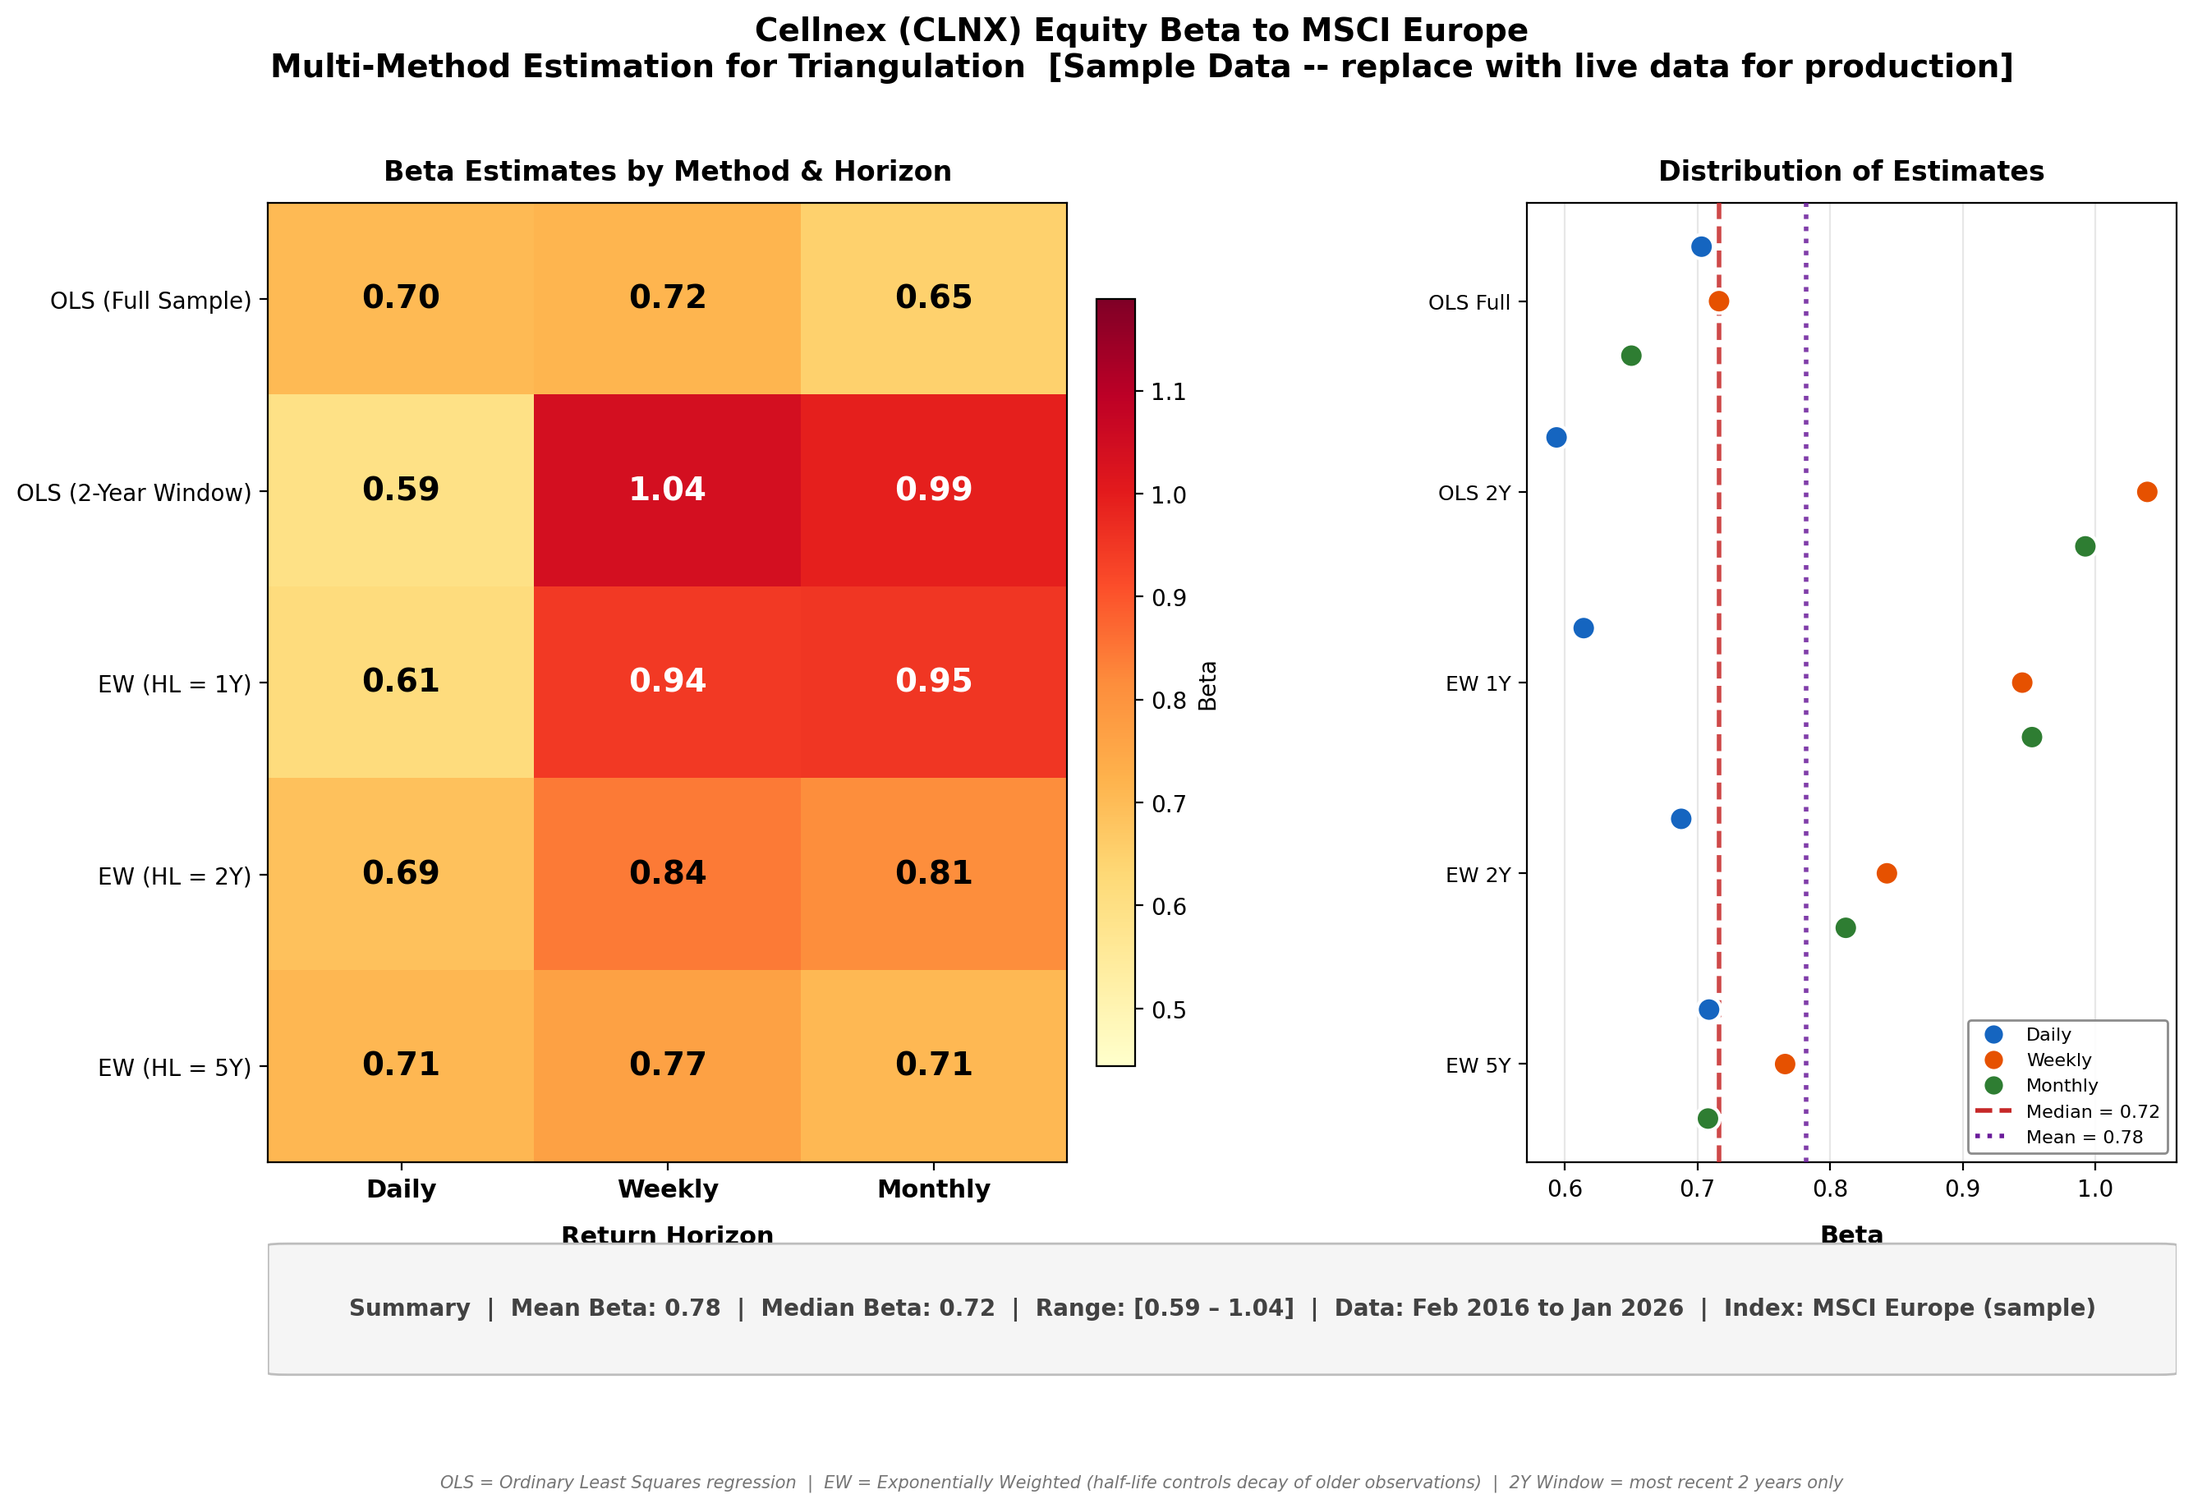
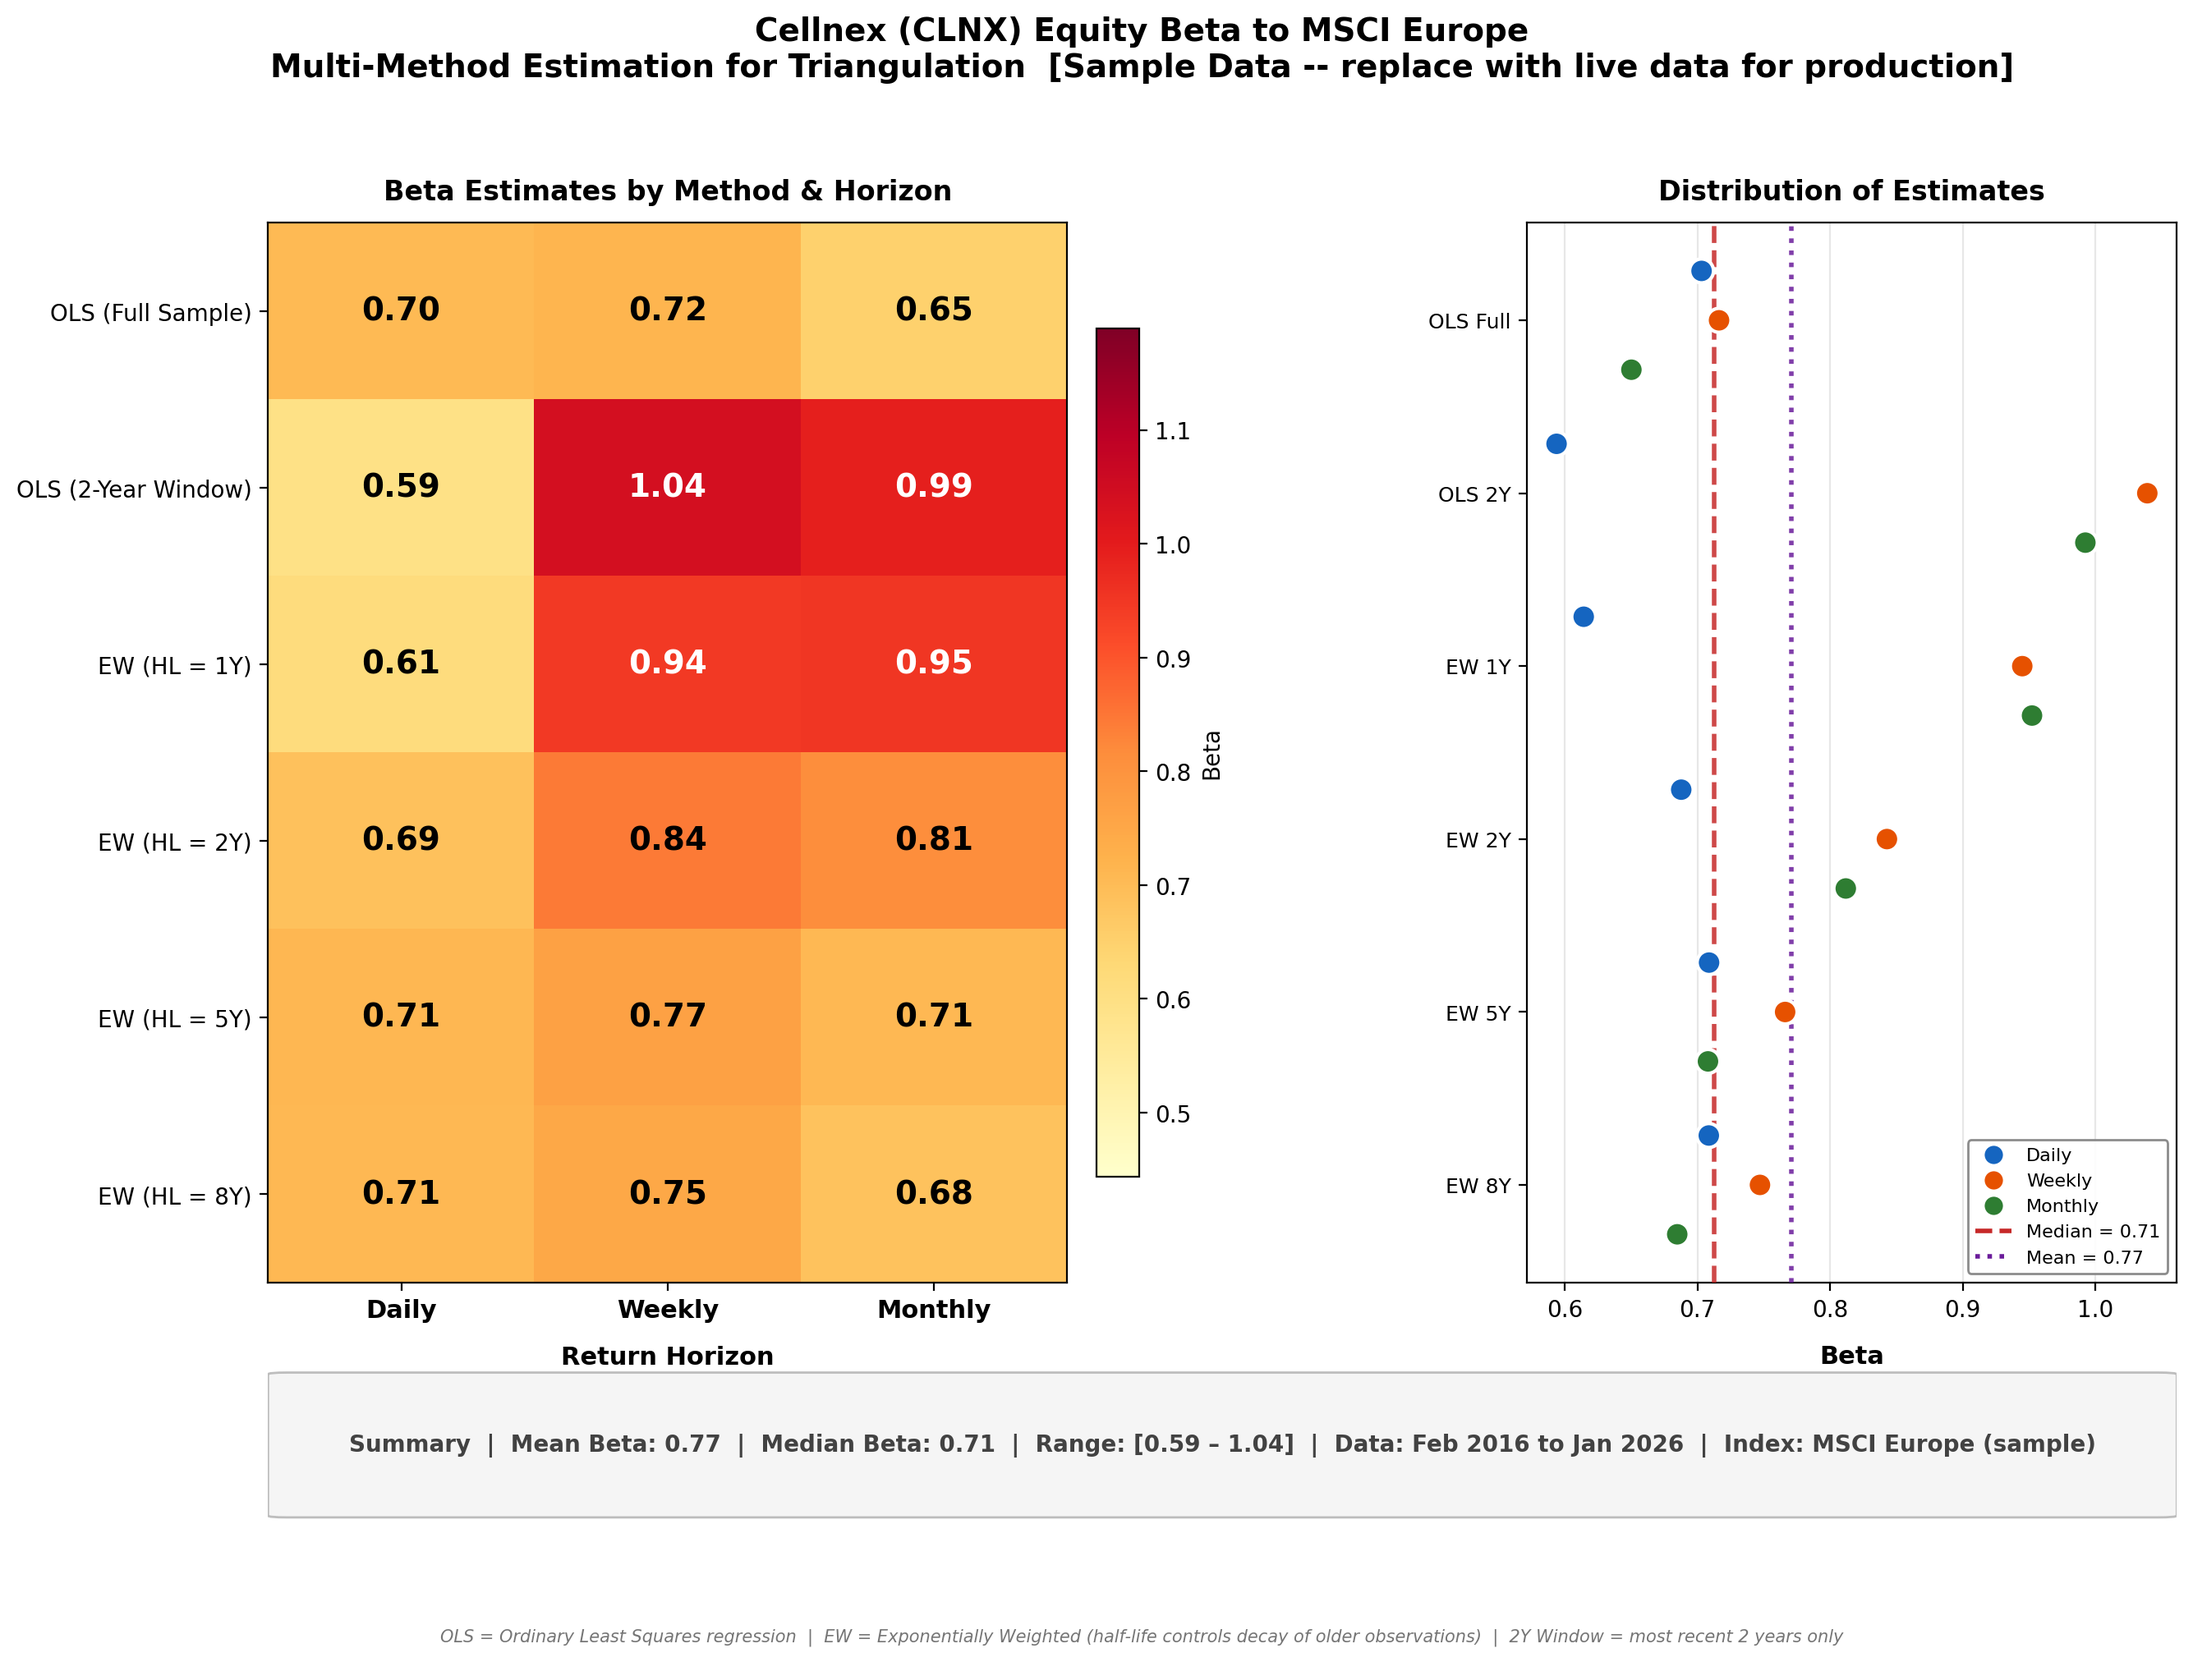
Add 8-year half-life variant to Cellnex equity beta estimation
Adds EW (HL = 8Y) as a new exponentially weighted beta methodology,
increasing the estimation grid from 15 to 18 beta estimates for
broader triangulation across decay horizons.

https://claude.ai/code/session_01LGr1KkWTNytDRxPtfdhonU

diff --git a/cellnex_equity_beta/cellnex_beta.py b/cellnex_equity_beta/cellnex_beta.py
@@ -56,7 +56,7 @@ RETURN_HORIZONS = {
 }
 
 # Half-lives for exponential weighting (in years)
-HALF_LIVES_YEARS = [1, 2, 5]
+HALF_LIVES_YEARS = [1, 2, 5, 8]
 
 
 # =============================================================================
@@ -338,6 +338,7 @@ def create_chart(results, msci_proxy_label, cellnex_prices, msci_prices,
         "EW (HL = 1Y)",
         "EW (HL = 2Y)",
         "EW (HL = 5Y)",
+        "EW (HL = 8Y)",
     ]
     horizons = list(RETURN_HORIZONS.keys())
 
@@ -356,7 +357,7 @@ def create_chart(results, msci_proxy_label, cellnex_prices, msci_prices,
     # =========================================================================
     # Figure setup
     # =========================================================================
-    fig = plt.figure(figsize=(14, 9.5), facecolor="white")
+    fig = plt.figure(figsize=(14, 10.5), facecolor="white")
 
     gs = fig.add_gridspec(
         2, 2,
@@ -413,6 +414,7 @@ def create_chart(results, msci_proxy_label, cellnex_prices, msci_prices,
         "EW (HL = 1Y)": "EW 1Y",
         "EW (HL = 2Y)": "EW 2Y",
         "EW (HL = 5Y)": "EW 5Y",
+        "EW (HL = 8Y)": "EW 8Y",
     }
 
     y_positions = []
@@ -543,6 +545,7 @@ def print_results_table(results):
         "EW (HL = 1Y)",
         "EW (HL = 2Y)",
         "EW (HL = 5Y)",
+        "EW (HL = 8Y)",
     ]
     horizons = list(RETURN_HORIZONS.keys())
 
